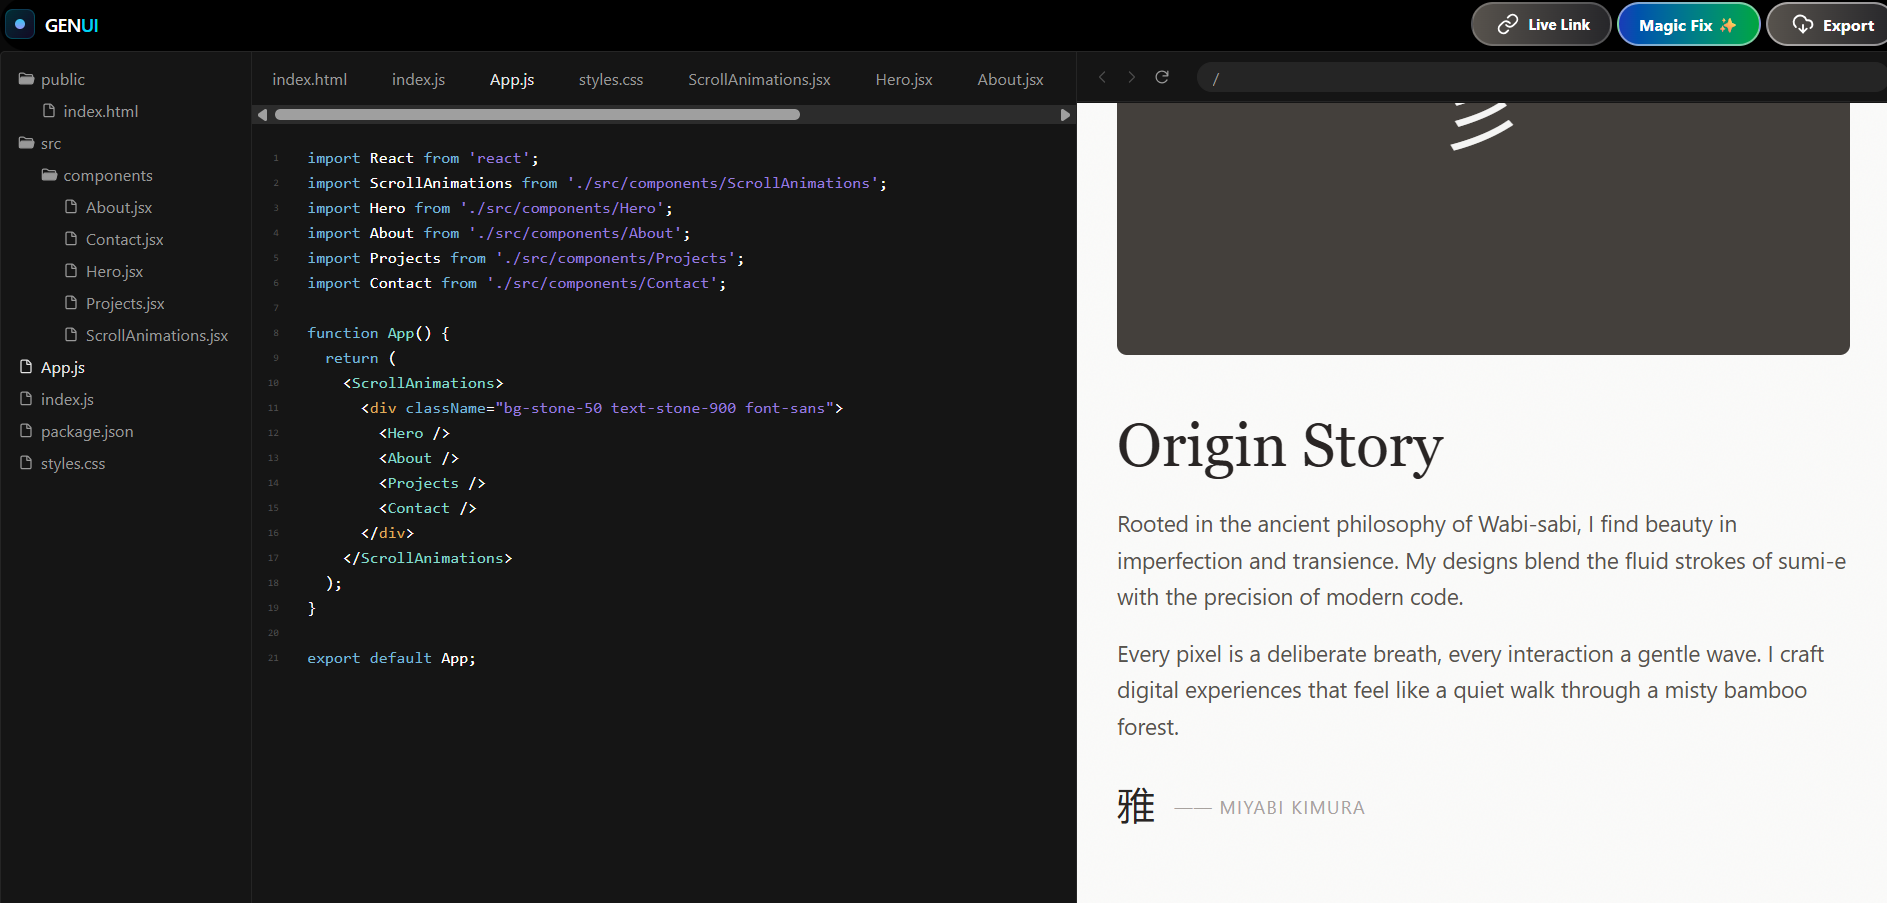
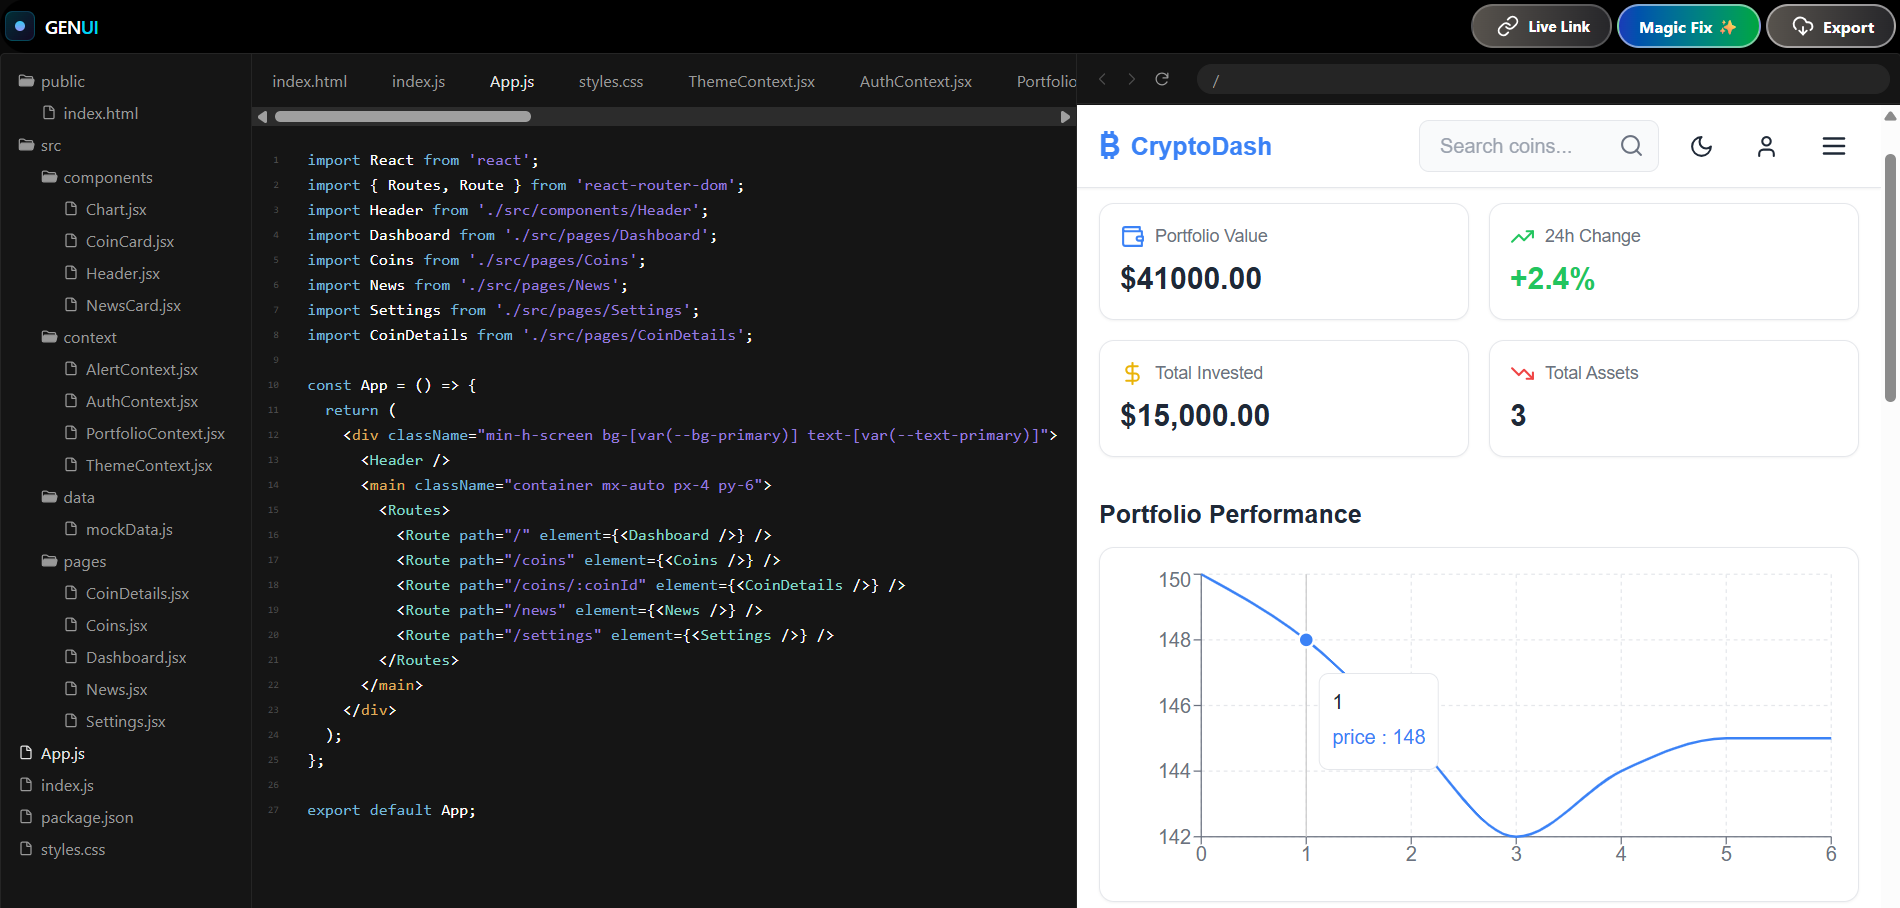
Changed genui image

diff --git a/src/lib/projects.ts b/src/lib/projects.ts
@@ -194,7 +194,7 @@ export const projects: Project[] = [
       "Next.js",
       "LangChain",
       "Fireworks AI · Deepseek-v4-flash",
-      "Groq · Kimi 2 Instruct",
+      "Groq · llama-3.3-70b-versatile",
       "CodeSandbox",
       "Motion",
       "Zustand",
